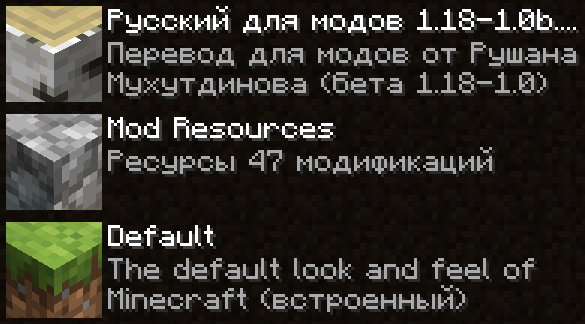
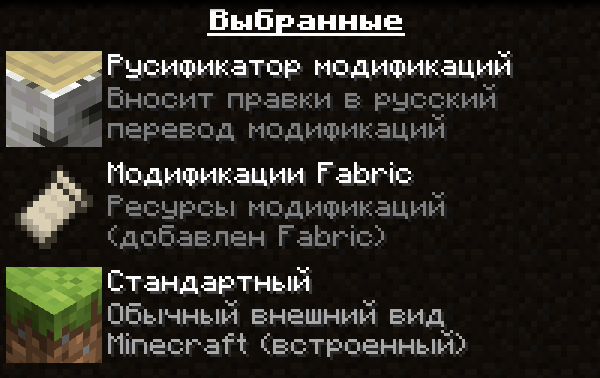
Хаос, хаос!? Нет, нет! Порядок, порядок!

diff --git a/README.md b/README.md
@@ -149,7 +149,7 @@
 
 ### 📋 Порядок
 
-Чтобы набор имел возможность изменять перевод модификаций, он должен стоять выше набора ресурсов модификаций. Например, у Forge он называется Mod Resources.
+Чтобы набор имел возможность изменять перевод модификаций, он должен стоять выше набора ресурсов модификаций. Например, у Fabric он называется «Модификации Fabric» (Fabric Mods).
 
 <div align="center">
     <img title="Хаос, хаос!? Нет, нет! Порядок, порядок!" height="200" src="Разное/order.png">
